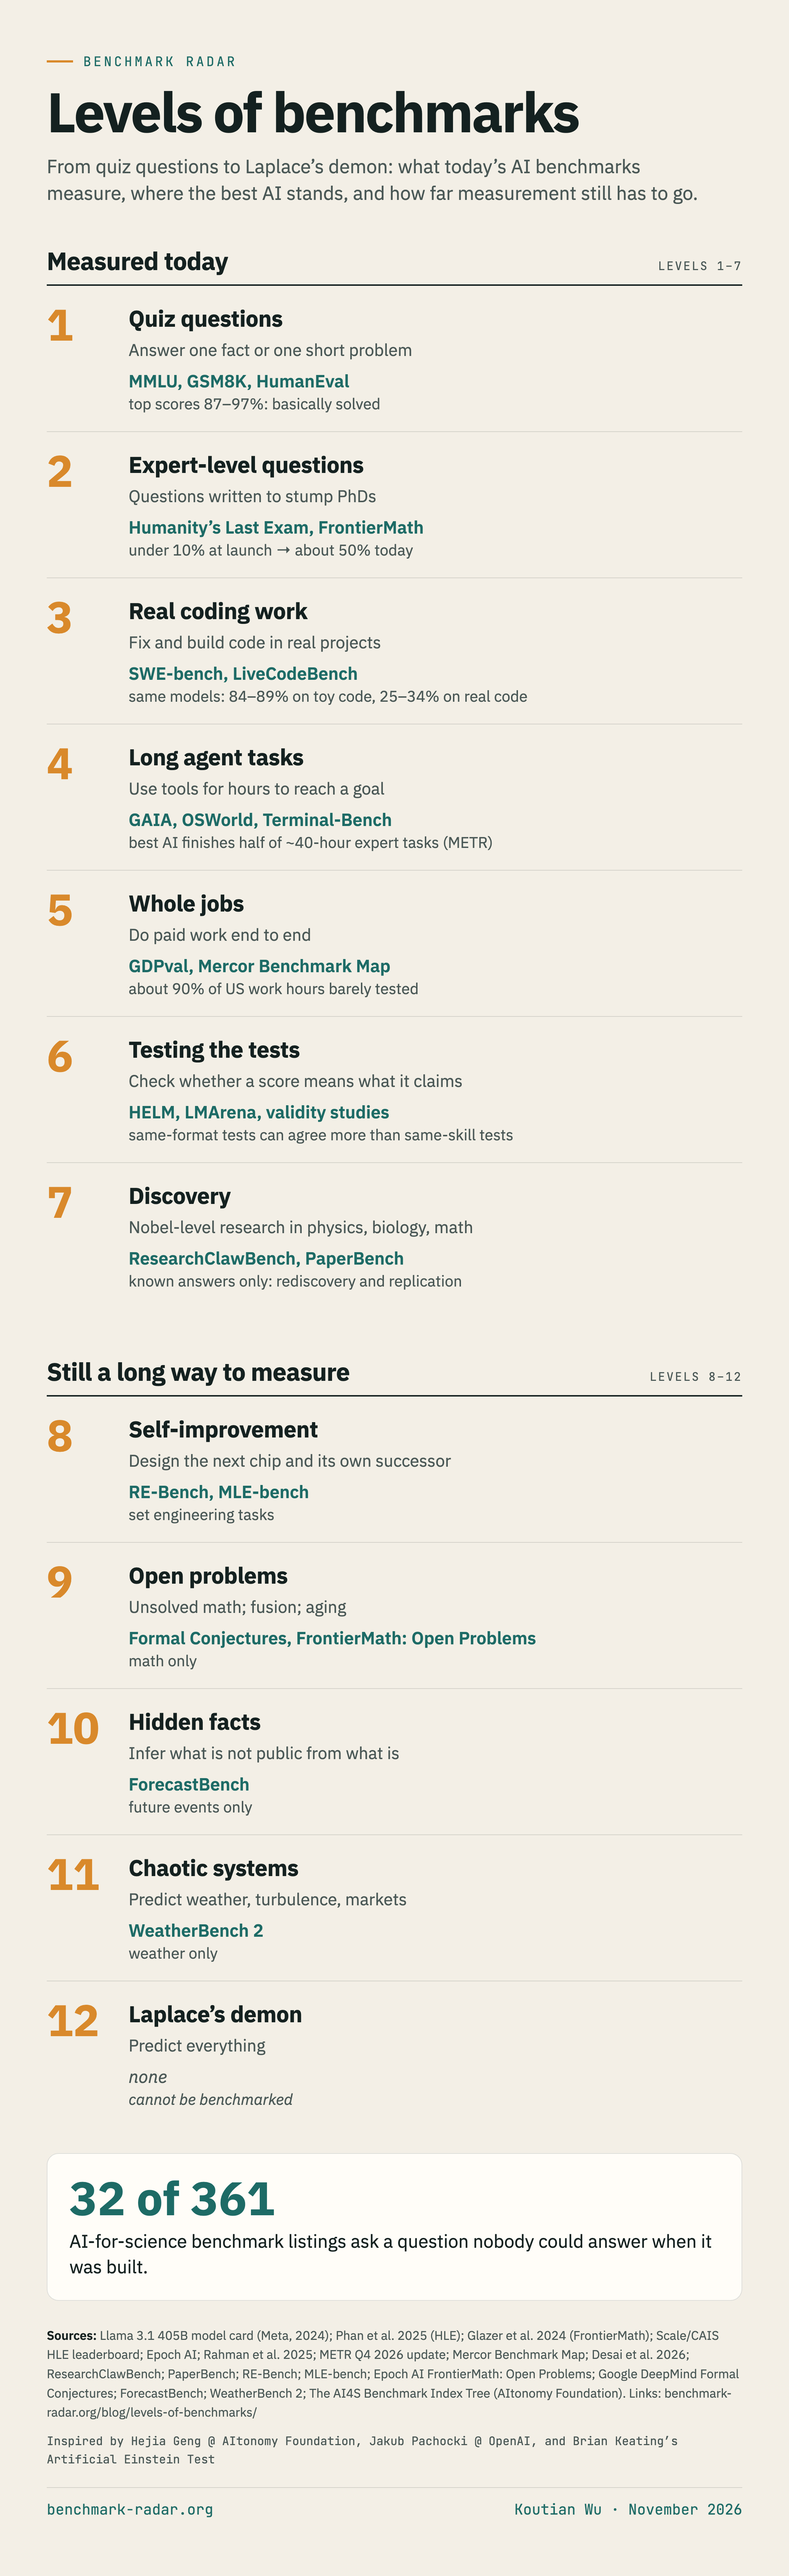
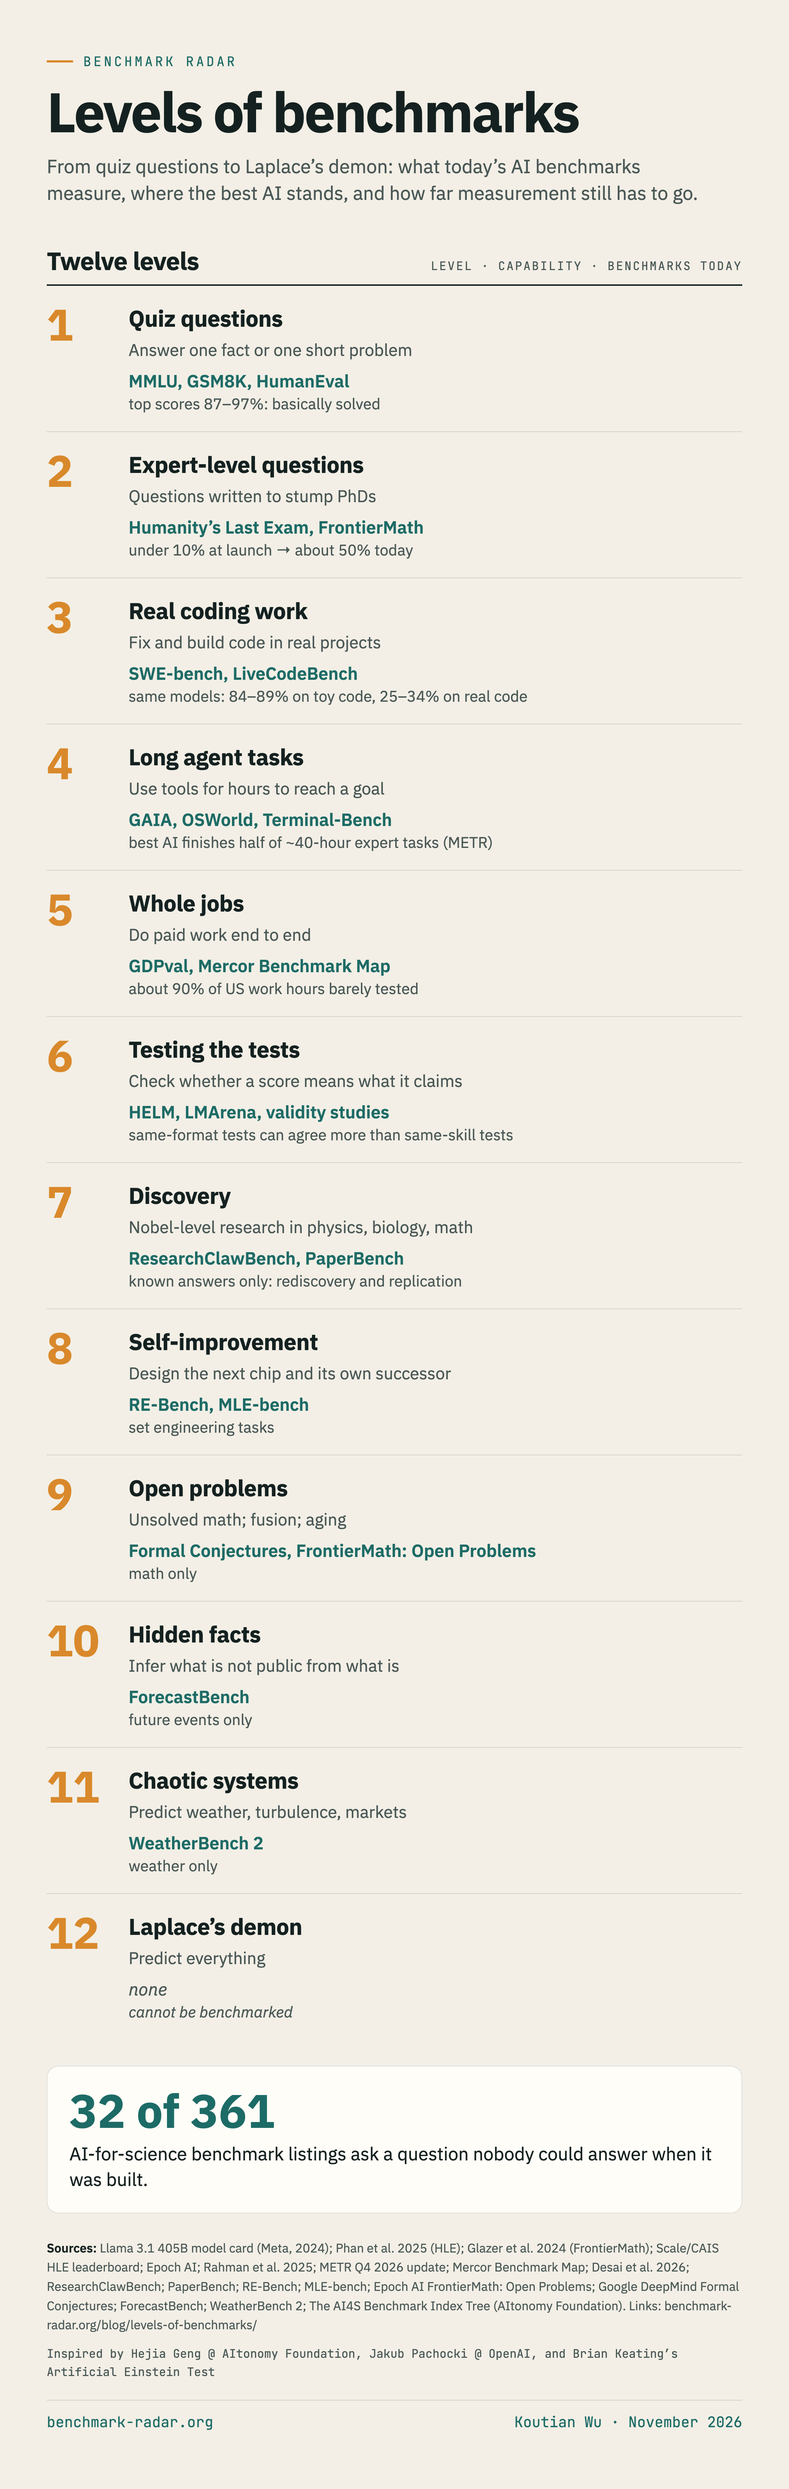
Show the levels as one ladder in the post and its image
The slides split Levels 1-7 and 8-12 only because a slide has a fixed page
size. The long image and the post have no page limit, so both now show one
continuous ladder and one table.

diff --git a/data/blog_posts/levels-of-benchmarks/body.html b/data/blog_posts/levels-of-benchmarks/body.html
@@ -1,10 +1,10 @@
-<p>The word “benchmark” covers a 30-second quiz item and a 40-hour agent task. Which level a benchmark sits on decides what its score can claim. Below are twelve levels: the seven that today’s benchmarks reach, and the five they barely touch.</p>
+<p>The word “benchmark” covers a 30-second quiz item and a 40-hour agent task. Which level a benchmark sits on decides what its score can claim. Below are twelve levels, from what today’s benchmarks measure well to what they barely touch.</p>
 <figure>
-<a href="levels-of-benchmarks.png"><img src="levels-of-benchmarks.png" width="1080" height="3524" alt="Levels of benchmarks, 1 to 12. Measured today: 1 Quiz questions, 2 Expert-level questions, 3 Real coding work, 4 Long agent tasks, 5 Whole jobs, 6 Testing the tests, 7 Discovery. Still a long way to measure: 8 Self-improvement, 9 Open problems, 10 Hidden facts, 11 Chaotic systems, 12 Laplace’s demon. Only 32 of 361 AI-for-science benchmark listings ask a question nobody could answer when it was built."></a>
+<a href="levels-of-benchmarks.png"><img src="levels-of-benchmarks.png" width="1080" height="3405" alt="Levels of benchmarks, 1 to 12: 1 Quiz questions, 2 Expert-level questions, 3 Real coding work, 4 Long agent tasks, 5 Whole jobs, 6 Testing the tests, 7 Discovery, 8 Self-improvement, 9 Open problems, 10 Hidden facts, 11 Chaotic systems, 12 Laplace’s demon. Only 32 of 361 AI-for-science benchmark listings ask a question nobody could answer when it was built."></a>
 <figcaption>Open the full-size image to save or share it.</figcaption>
 </figure>
-<h2>Measured today: Levels 1–7</h2>
-<table><thead><tr><th>Level</th><th>Capability</th><th>Example task</th><th>Example benchmarks</th><th>Where it stands</th><th>Source</th></tr></thead><tbody>
+<h2>The twelve levels</h2>
+<table><thead><tr><th>Level</th><th>Capability</th><th>Example task</th><th>Benchmarks today</th><th>Where it stands</th><th>Source</th></tr></thead><tbody>
 <tr><td>1</td><td><strong>Quiz questions</strong></td><td>Answer one fact or one short problem</td><td>MMLU, GSM8K, HumanEval</td><td>Top scores are 87–97%: basically solved.</td><td><a href="https://github.com/meta-llama/llama-models/blob/main/models/llama3_1/MODEL_CARD.md">Llama 3.1 405B model card</a></td></tr>
 <tr><td>2</td><td><strong>Expert-level questions</strong></td><td>Questions written to stump PhDs</td><td>Humanity’s Last Exam, FrontierMath</td><td>Under 10% at launch, about 50% today.</td><td><a href="https://arxiv.org/html/2501.14249v1">HLE v1</a>, <a href="https://arxiv.org/abs/2411.04872">FrontierMath</a>, <a href="https://labs.scale.com/leaderboard/humanitys_last_exam">HLE leaderboard</a>, <a href="https://epoch.ai/data/benchmark_data.zip">Epoch AI</a></td></tr>
 <tr><td>3</td><td><strong>Real coding work</strong></td><td>Fix and build code in real projects</td><td>SWE-bench, LiveCodeBench</td><td>The same models score 84–89% on toy code and 25–34% on real code.</td><td><a href="https://arxiv.org/abs/2510.26130">Rahman et al. 2025</a></td></tr>
@@ -12,9 +12,6 @@
 <tr><td>5</td><td><strong>Whole jobs</strong></td><td>Do paid work end to end</td><td>GDPval, Mercor Benchmark Map</td><td>About 90% of US working hours fall on tasks with little or no benchmark coverage.</td><td><a href="https://www.mercor.com/research/labor-index/benchmark-map">Mercor</a></td></tr>
 <tr><td>6</td><td><strong>Testing the tests</strong></td><td>Check whether a score means what it claims</td><td>HELM, LMArena, validity studies</td><td>In some cases, tests that share a score format agree more than tests that claim the same skill.</td><td><a href="https://arxiv.org/abs/2609.08812">Desai et al. 2026</a></td></tr>
 <tr><td>7</td><td><strong>Discovery</strong></td><td>Nobel-level research in physics, biology, math</td><td>ResearchClawBench, PaperBench</td><td>Known answers only: rediscovery and replication.</td><td><a href="https://github.com/InternScience/ResearchClawBench">ResearchClawBench</a>, <a href="https://arxiv.org/abs/2504.01848">PaperBench</a></td></tr>
-</tbody></table>
-<h2>Still a long way to measure: Levels 8–12</h2>
-<table><thead><tr><th>Level</th><th>Capability</th><th>Example task</th><th>Closest benchmark today</th><th>Where it stands</th><th>Source</th></tr></thead><tbody>
 <tr><td>8</td><td><strong>Self-improvement</strong></td><td>Design the next chip and its own successor</td><td>RE-Bench, MLE-bench</td><td>Set engineering tasks.</td><td><a href="https://arxiv.org/abs/2411.15114">RE-Bench</a>, <a href="https://arxiv.org/abs/2410.07095">MLE-bench</a></td></tr>
 <tr><td>9</td><td><strong>Open problems</strong></td><td>Unsolved math; fusion; aging</td><td>Formal Conjectures, FrontierMath: Open Problems</td><td>Math only, where a verifier can check an answer nobody knew.</td><td><a href="https://github.com/google-deepmind/formal-conjectures">Formal Conjectures</a>, <a href="https://epoch.ai/frontiermath/open-problems">FrontierMath: Open Problems</a></td></tr>
 <tr><td>10</td><td><strong>Hidden facts</strong></td><td>Infer what is not public from what is</td><td>ForecastBench</td><td>Future events only.</td><td><a href="https://arxiv.org/abs/2409.19839">ForecastBench</a></td></tr>

diff --git a/docs/blog-images/levels-of-benchmarks.html b/docs/blog-images/levels-of-benchmarks.html
@@ -35,7 +35,6 @@ h1 { font-size: 76px; font-weight: 700; letter-spacing: -0.03em; line-height: 1.
 .task { font-size: 23px; color: var(--ink-soft); }
 .bench { font-size: 24px; font-weight: 600; color: var(--teal); margin-top: 4px; }
 .bench small { display: block; font-size: 21px; font-weight: 400; color: var(--ink-soft); margin-top: 2px; }
-.upper .band { margin-top: 64px; }
 .none { color: var(--ink-soft); font-style: italic; font-weight: 400; }
 .stat { margin-top: 36px; padding: 28px 30px; border-radius: 16px; background: var(--card); border: 1px solid var(--line); }
 .stat .n { font-size: 64px; font-weight: 700; color: var(--teal); line-height: 1; }
@@ -52,7 +51,7 @@ h1 { font-size: 76px; font-weight: 700; letter-spacing: -0.03em; line-height: 1.
   <h1>Levels of benchmarks</h1>
   <p class="lede">From quiz questions to Laplace’s demon: what today’s AI benchmarks measure, where the best AI stands, and how far measurement still has to go.</p>
 
-  <div class="band"><h2>Measured today</h2><span>Levels 1–7</span></div>
+  <div class="band"><h2>Twelve levels</h2><span>Level · capability · benchmarks today</span></div>
 
   <div class="rung"><div class="lv">1</div><div class="nm">Quiz questions</div><div class="task">Answer one fact or one short problem</div><div class="bench">MMLU, GSM8K, HumanEval<small>top scores 87–97%: basically solved</small></div></div>
   <div class="rung"><div class="lv">2</div><div class="nm">Expert-level questions</div><div class="task">Questions written to stump PhDs</div><div class="bench">Humanity’s Last Exam, FrontierMath<small>under 10% at launch → about 50% today</small></div></div>
@@ -60,17 +59,14 @@ h1 { font-size: 76px; font-weight: 700; letter-spacing: -0.03em; line-height: 1.
   <div class="rung"><div class="lv">4</div><div class="nm">Long agent tasks</div><div class="task">Use tools for hours to reach a goal</div><div class="bench">GAIA, OSWorld, Terminal-Bench<small>best AI finishes half of ~40-hour expert tasks (METR)</small></div></div>
   <div class="rung"><div class="lv">5</div><div class="nm">Whole jobs</div><div class="task">Do paid work end to end</div><div class="bench">GDPval, Mercor Benchmark Map<small>about 90% of US work hours barely tested</small></div></div>
   <div class="rung"><div class="lv">6</div><div class="nm">Testing the tests</div><div class="task">Check whether a score means what it claims</div><div class="bench">HELM, LMArena, validity studies<small>same-format tests can agree more than same-skill tests</small></div></div>
-  <div class="rung" style="border-bottom:0"><div class="lv">7</div><div class="nm">Discovery</div><div class="task">Nobel-level research in physics, biology, math</div><div class="bench">ResearchClawBench, PaperBench<small>known answers only: rediscovery and replication</small></div></div>
+  <div class="rung"><div class="lv">7</div><div class="nm">Discovery</div><div class="task">Nobel-level research in physics, biology, math</div><div class="bench">ResearchClawBench, PaperBench<small>known answers only: rediscovery and replication</small></div></div>
 
-  <section class="upper">
-    <div class="band"><h2>Still a long way to measure</h2><span>Levels 8–12</span></div>
     <div class="rung"><div class="lv">8</div><div class="nm">Self-improvement</div><div class="task">Design the next chip and its own successor</div><div class="bench">RE-Bench, MLE-bench<small>set engineering tasks</small></div></div>
     <div class="rung"><div class="lv">9</div><div class="nm">Open problems</div><div class="task">Unsolved math; fusion; aging</div><div class="bench">Formal Conjectures, FrontierMath: Open Problems<small>math only</small></div></div>
     <div class="rung"><div class="lv">10</div><div class="nm">Hidden facts</div><div class="task">Infer what is not public from what is</div><div class="bench">ForecastBench<small>future events only</small></div></div>
     <div class="rung"><div class="lv">11</div><div class="nm">Chaotic systems</div><div class="task">Predict weather, turbulence, markets</div><div class="bench">WeatherBench 2<small>weather only</small></div></div>
     <div class="rung" style="border-bottom:0"><div class="lv">12</div><div class="nm">Laplace’s demon</div><div class="task">Predict everything</div><div class="bench none">none<small>cannot be benchmarked</small></div></div>
     <div class="stat"><div class="n">32 of 361</div><p>AI-for-science benchmark listings ask a question nobody could answer when it was built.</p></div>
-  </section>
 
   <div class="foot">
     <p><b>Sources:</b> Llama 3.1 405B model card (Meta, 2024); Phan et al. 2025 (HLE); Glazer et al. 2024 (FrontierMath); Scale/CAIS HLE leaderboard; Epoch AI; Rahman et al. 2025; METR Q4 2026 update; Mercor Benchmark Map; Desai et al. 2026; ResearchClawBench; PaperBench; RE-Bench; MLE-bench; Epoch AI FrontierMath: Open Problems; Google DeepMind Formal Conjectures; ForecastBench; WeatherBench 2; The AI4S Benchmark Index Tree (AItonomy Foundation). Links: benchmark-radar.org/blog/levels-of-benchmarks/</p>
